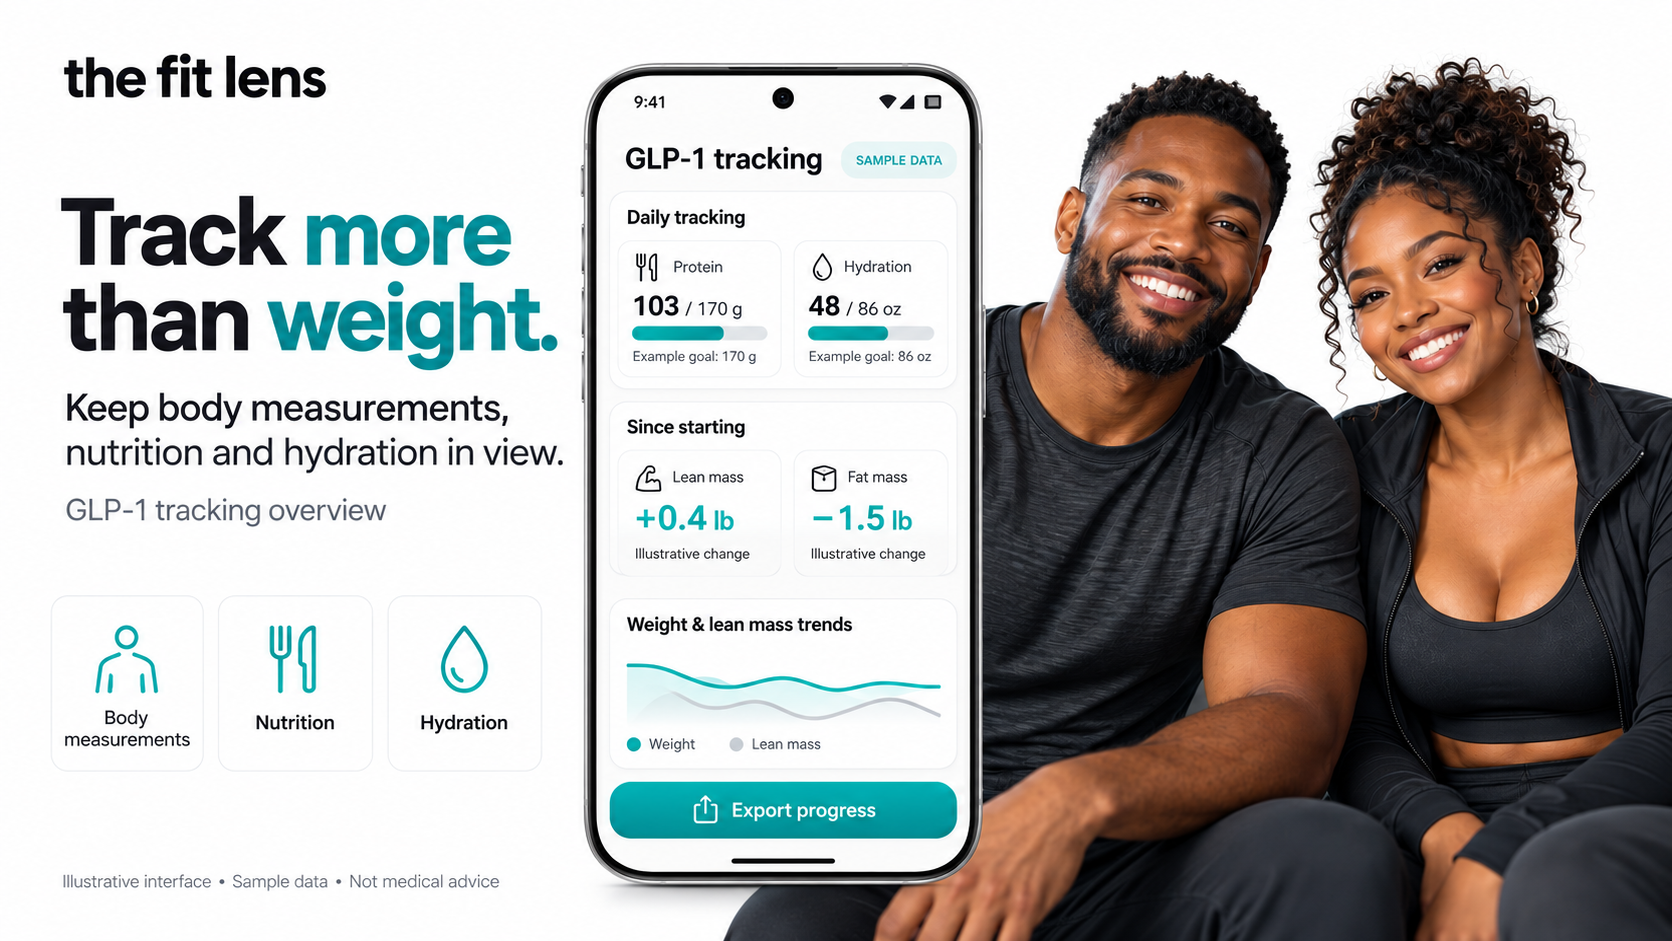
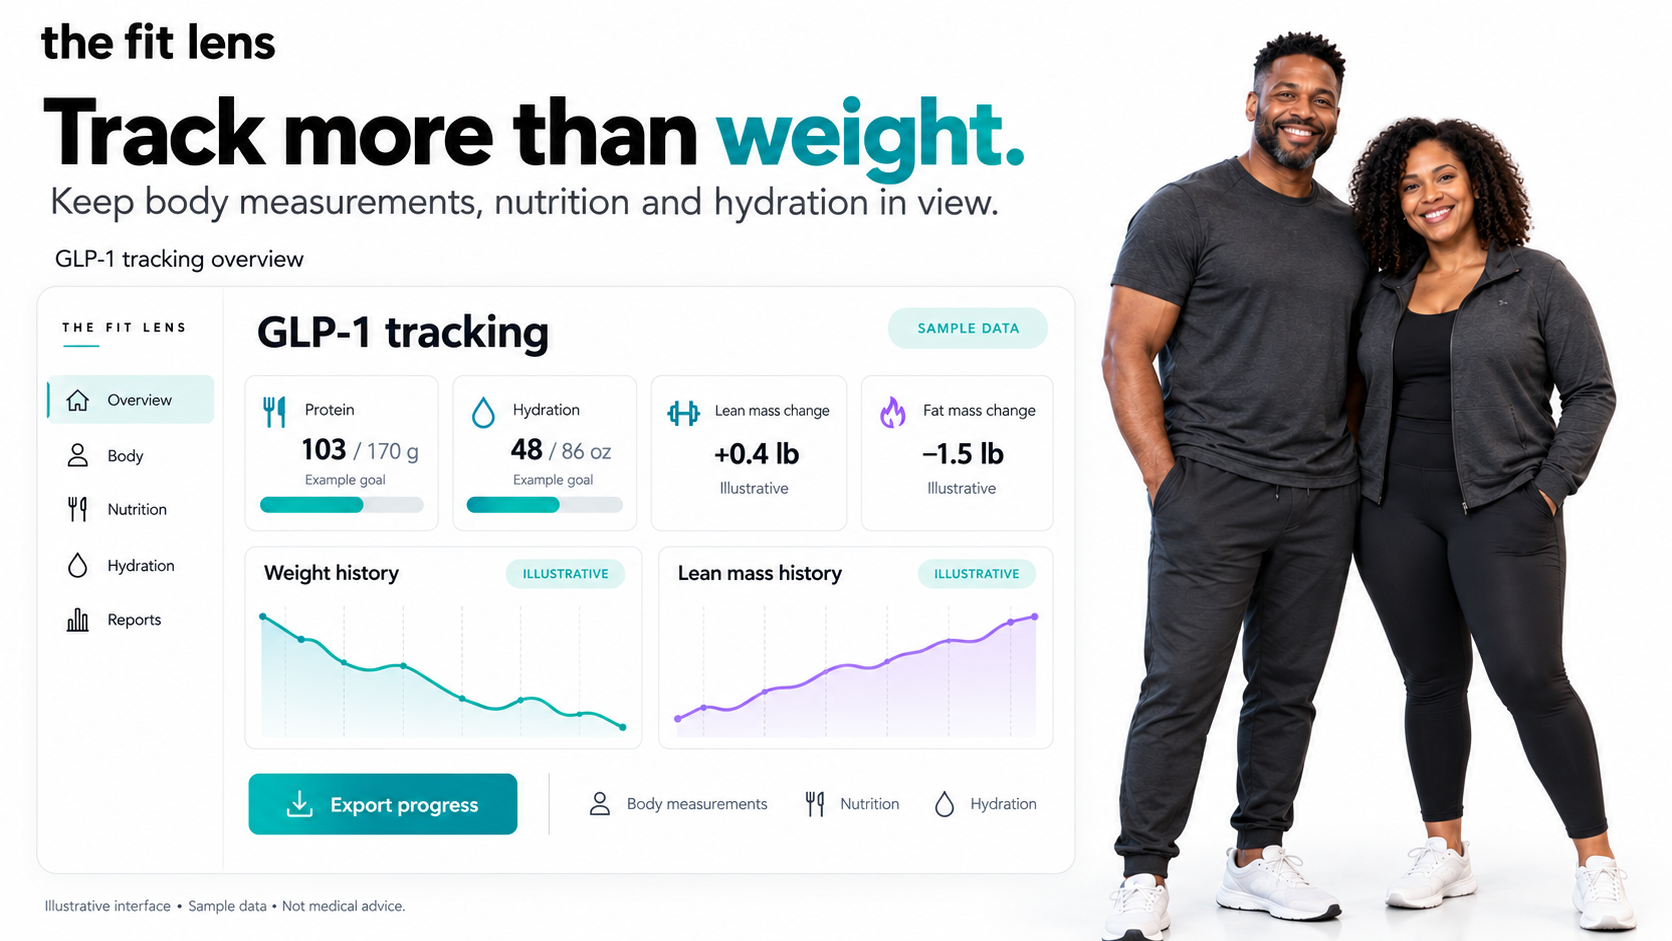
Preview: one health report item; laptop GLP-1 dashboard image
- Removed 'A summary you can share' and its report-preview.png; kept
  'Your progress, ready to share'
- 'Track more than weight' now uses the laptop-style GLP-1 dashboard
  (Fit Lens GLP-1 tracking dashboard-11.png) as glp1-tracking.png
- weight-trend-alex.png and body-3d.png still not provided; skipped

diff --git a/src/content/product.ts b/src/content/product.ts
@@ -258,21 +258,6 @@ export const features: (Feature & { section: HomeSection })[] = [
     heading: "A coach that reads your numbers",
     body: "Daily briefings and a chat coach built on your own readings, not generic advice.",
   },
-  {
-    id: "health-report",
-    section: "what",
-    status: "available",
-    source: "patient-summary-pdf function",
-    heading: "A summary you can share",
-    body:
-      "Export a PDF of your body composition, activity, nutrition targets and coaching notes for your own records or a doctor's visit. It is a personal tracking summary, not a medical record.",
-    image: {
-      src: "/images/report-preview.png",
-      width: 1672,
-      height: 941,
-      alt: `A tablet showing a sample Fit Lens health summary with body composition, nutrition and activity charts. ${SAMPLE}`,
-    },
-  },
   // Added 2026-10-28 on Andre's instruction; he asked that the image claims not be verified.
   {
     id: "health-report-pdf",
@@ -314,7 +299,7 @@ export const features: (Feature & { section: HomeSection })[] = [
       src: "/images/glp1-tracking.png",
       width: 1672,
       height: 941,
-      alt: `A phone showing GLP-1 tracking with protein and hydration against example goals, lean and fat mass change, and weight and lean mass trends, next to two people smiling. ${SAMPLE}`,
+      alt: `A dashboard showing GLP-1 tracking with protein and hydration against example goals, lean and fat mass change, and weight and lean mass history, next to two people standing together. ${SAMPLE}`,
     },
   },
   {
